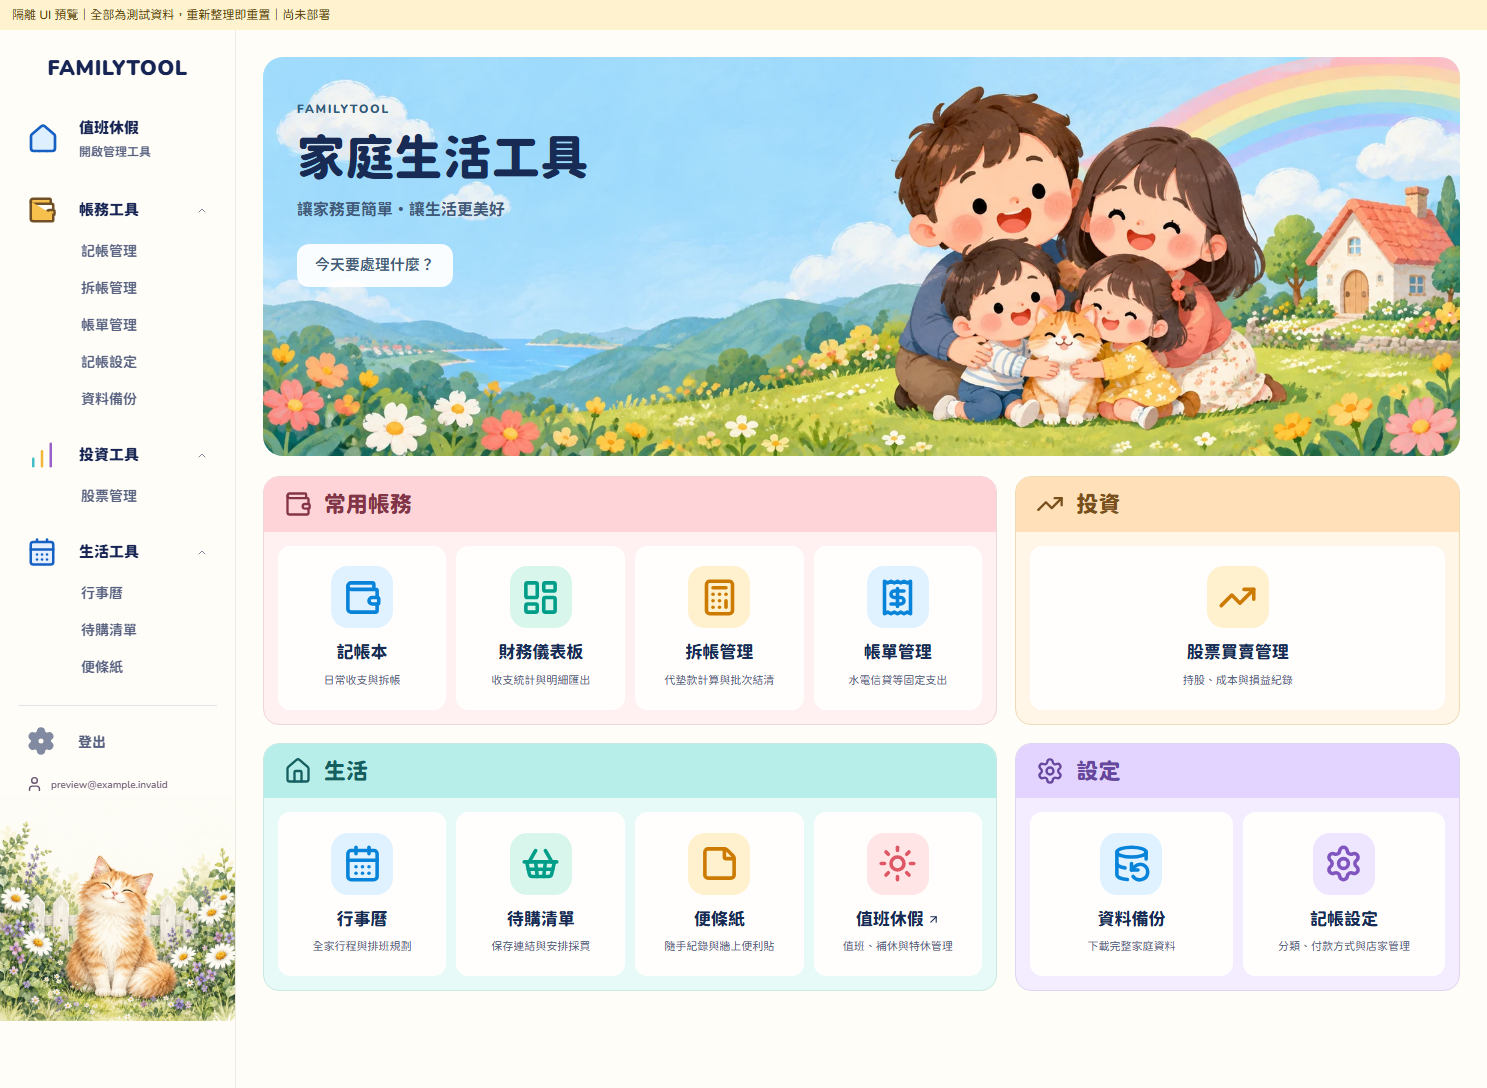
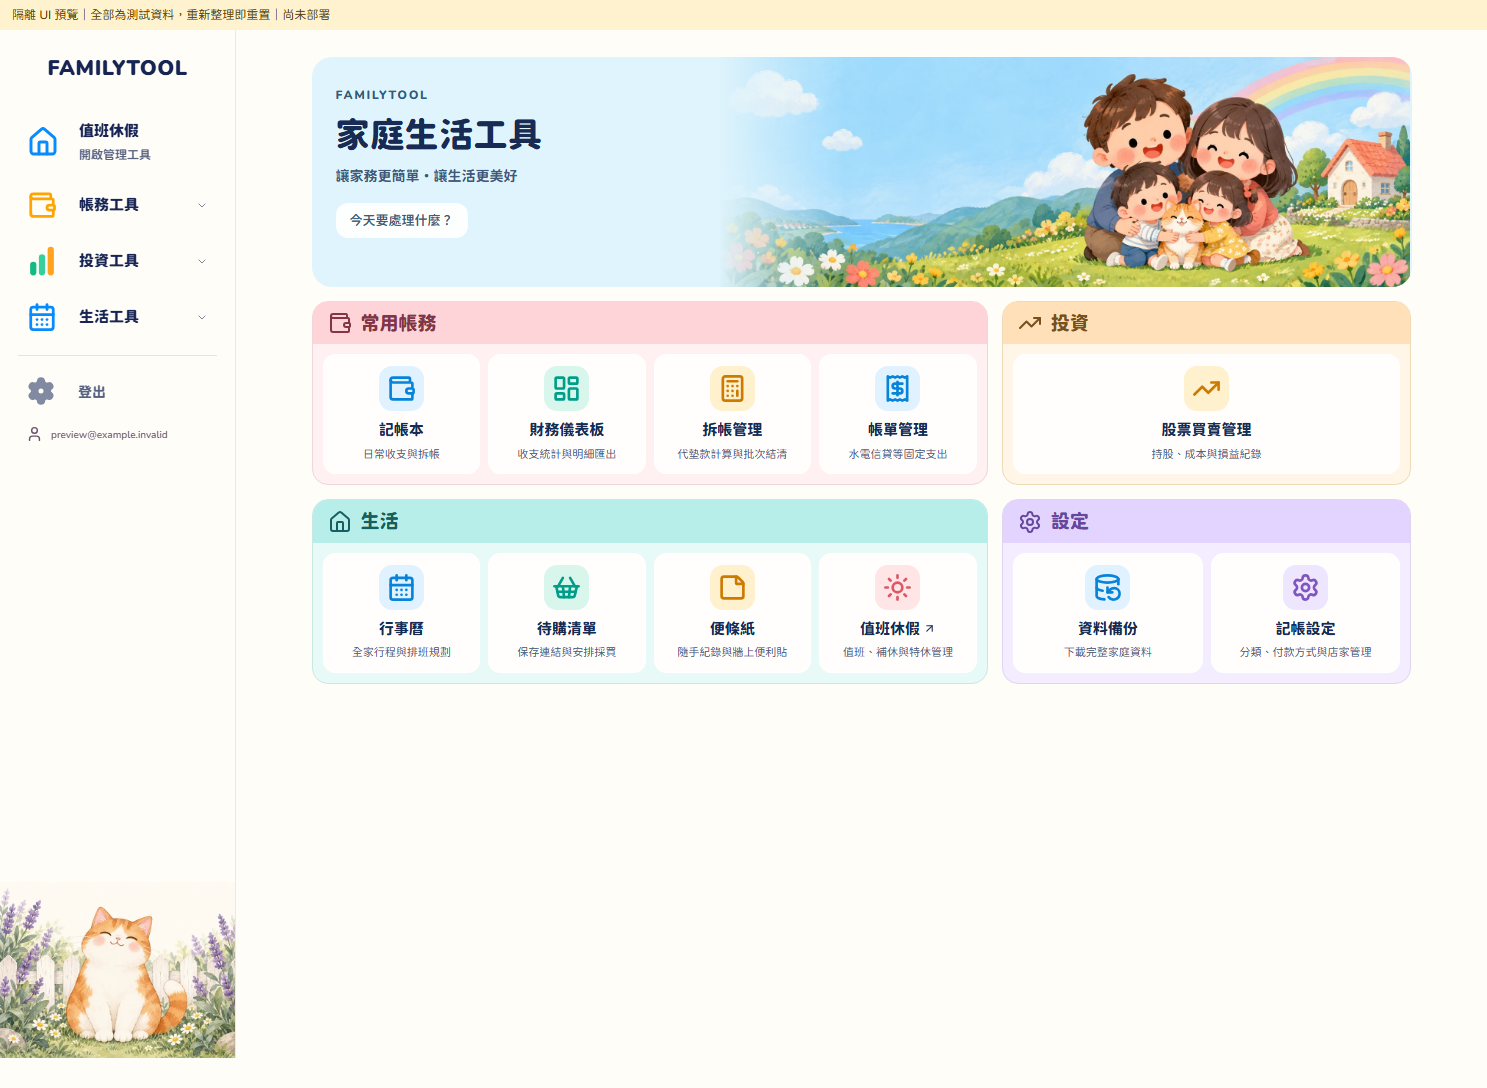
ui: compact homepage and keep sidebar cat visible

diff --git a/src/components/AppShell.tsx b/src/components/AppShell.tsx
@@ -1,7 +1,7 @@
 "use client";
 import "@/app/family-harmony.css";
 
-import { useEffect, useMemo, useState } from "react";
+import { useEffect, useState } from "react";
 import Link from "next/link";
 import { usePathname, useRouter } from "next/navigation";
 import { supabase } from "@/lib/supabaseClient";
@@ -61,11 +61,7 @@ export default function AppShell({ children }: { children: React.ReactNode }) {
   const pathname = usePathname();
   const [user, setUser] = useState<SupabaseUser | null>(null);
   const [drawerOpen, setDrawerOpen] = useState(false);
-  const activeGroup = useMemo(() => NAV_GROUPS.find((group) => group.items.some((item) => {
-    if (item.href === "/settings/categories") return ["/settings/categories", "/settings/payment-methods", "/settings/merchants", "/settings/payers"].includes(pathname);
-    return pathname === item.href || pathname.startsWith(`${item.href}/`);
-  }))?.title ?? null, [pathname]);
-  const [expandedGroups, setExpandedGroups] = useState<Set<string>>(() => new Set(NAV_GROUPS.map(group => group.title)));
+  const [expandedGroups, setExpandedGroups] = useState<Set<string>>(() => new Set());
 
   useEffect(() => {
     supabase.auth.getUser().then(({ data: { user } }) => setUser(user));
@@ -79,10 +75,6 @@ export default function AppShell({ children }: { children: React.ReactNode }) {
     });
     return () => subscription.unsubscribe();
   }, [router]);
-
-  useEffect(() => {
-    if (activeGroup) setExpandedGroups((current) => current.has(activeGroup) ? current : new Set([...current, activeGroup]));
-  }, [activeGroup]);
 
   const handleLogout = async () => {
     try {
@@ -122,6 +114,7 @@ export default function AppShell({ children }: { children: React.ReactNode }) {
             <span><strong>FAMILYTOOL</strong></span>
           </Link>
 
+          <div className="family-sidebar-scroll">
           <Link href="https://shift-leave-manager.vercel.app/" target="_blank" rel="noreferrer" className="shift-shortcut">
             <House aria-hidden="true" />
             <span><strong>值班休假</strong><small>開啟管理工具</small></span>
@@ -155,6 +148,7 @@ export default function AppShell({ children }: { children: React.ReactNode }) {
               <button onClick={handleLogout}><Settings aria-hidden="true" />登出</button>
             </div>
           )}
+          </div>
           <div className="family-sidebar-garden" aria-hidden="true" />
         </aside>
       </div>

diff --git a/src/app/home-harmony.css b/src/app/home-harmony.css
@@ -1,5 +1,5 @@
 /* Home-only presentation; shared navigation, data and feature pages are untouched. */
-.home-harmony .home-inner { width:100%; max-width:1440px; margin:auto; color:#172b55; }
+.home-harmony .home-inner { width:100%; max-width:1100px; margin:auto; color:#172b55; }
 .home-hero { position:relative; isolation:isolate; overflow:hidden; min-height:260px; aspect-ratio:3; border-radius:20px; background:#dff4fc; }
 .home-hero-art { position:absolute; inset:0; width:100%; height:100%; object-fit:cover; object-position:center; z-index:-1; }
 .home-hero-copy { padding:38px 34px; width:53%; }
@@ -36,4 +36,34 @@
 @media (max-width:700px) {
   .home-hero { aspect-ratio:auto; min-height:390px; }
   .home-hero-art { width:200%; max-width:none; height:auto; top:auto; bottom:0; left:auto; right:0; object-fit:contain; }
+}
+/* Compact homepage: reduce visual height without scaling text or tap targets. */
+@media (min-width:701px) {
+  .home-hero { min-height:0; height:230px; aspect-ratio:auto; }
+  .home-hero-art { width:auto; min-width:63%; max-width:none; height:100%; left:auto; right:0; object-fit:contain; mask-image:linear-gradient(to right,transparent,#000 18%); }
+  .home-hero-copy { padding:24px; width:50%; }
+  .home-hero h1 { font-size:34px; }
+  .home-hero-copy p { font-size:14px; }
+  .home-prompt { margin-top:15px; padding:8px 14px; font-size:13px; }
+  .home-groups { gap:14px; margin-top:14px; }
+  .home-section-heading { padding:9px 15px; gap:9px; }
+  .home-section-heading h2 { font-size:19px; }
+  .home-section-heading > svg { width:24px; height:24px; }
+  .home-tools { padding:10px; gap:8px; }
+  .home-tool { min-height:120px; padding:10px 6px; }
+  .home-tool-icon { width:45px; height:45px; border-radius:13px; margin-bottom:8px; }
+  .home-tool-icon svg { width:29px; height:29px; }
+  .home-tool-name { font-size:15px; }
+  .home-tool-desc { margin-top:4px; }
+  .home-section--investment .home-tools,.home-section--settings .home-tools { height:calc(100% - 44px); }
+}
+@media (min-width:1000px) { .home-tools { grid-template-columns:repeat(4,minmax(0,1fr)); } }
+@media (max-width:700px) {
+  .home-hero { min-height:335px; }
+  .home-hero-copy { padding:17px; }
+  .home-hero h1 { font-size:26px; }
+  .home-hero-art { width:175%; }
+  .home-tool { min-height:124px; padding:12px 7px; }
+  .home-tool-icon { width:48px; height:48px; margin-bottom:8px; }
+  .home-tool-icon svg { width:30px; height:30px; }
 }

diff --git a/src/app/family-harmony.css b/src/app/family-harmony.css
@@ -22,7 +22,19 @@
 .family-shell .family-content :is(.shopping-pilot,.stickies-pilot,.sticky-detail-ui,.calendar-ui) { --section-accent:#087c80; --section-soft:#e8faf7; --section-line:#c8e9e1; }
 .family-shell .family-content :is(.backup-ui,.app-page:has(.settings-navigation)) { --section-accent:#7252b1; --section-soft:#f3edff; --section-line:#e0d5f0; }
 
-/* Keep the garden/cat artwork untouched. */
+/* Sidebar reference refresh: keep navigation structure and actions unchanged. */
+.family-shell .family-sidebar { height:100dvh; min-height:0; overflow:hidden; padding-bottom:0; }
+.family-shell .family-sidebar > .family-brand { flex-shrink:0; }
+.family-shell .family-sidebar-scroll { flex:1 1 0%; min-height:0; overflow-y:auto; overflow-x:hidden; overscroll-behavior-y:contain; scrollbar-width:thin; padding:3px 4px 8px; margin:0 -4px; }
+.family-shell .family-sidebar > .family-sidebar-garden { flex:0 0 clamp(90px,23dvh,180px); height:clamp(90px,23dvh,180px); min-height:0; background-size:contain; background-position:center bottom; }
+.family-shell .family-sidebar .shift-shortcut > svg:first-child { color:#078bff; fill:none; stroke-width:2.2; }
+.family-shell .family-sidebar .family-nav-group:first-child .family-nav-group-label svg { color:#ffa400; fill:none; stroke-width:2.2; }
+.family-shell .family-sidebar .family-nav-group:nth-child(2) .family-nav-group-label svg { fill:none; stroke-width:5; stroke-linecap:round; }
+.family-shell .family-sidebar .family-nav-group:nth-child(2) .family-nav-group-label svg path:nth-child(1) { stroke:#13bb83; }
+.family-shell .family-sidebar .family-nav-group:nth-child(2) .family-nav-group-label svg path:nth-child(2) { stroke:#37cf9b; }
+.family-shell .family-sidebar .family-nav-group:nth-child(2) .family-nav-group-label svg path:nth-child(3) { stroke:#ffa321; }
+.family-shell .family-sidebar .family-nav-group:nth-child(3) .family-nav-group-label svg { color:#078bff; fill:none; stroke-width:2.2; }
+.family-shell .family-sidebar-garden { min-height:180px; background-image:url('/images/sidebar-garden-cat-soft.webp'); background-size:100% auto; }
 .family-shell .family-sidebar { background-color:#fffdf7 !important; border-right-color:#eee9df !important; }
 .family-shell .family-nav-link.active { background:#e0f1ff !important; color:#075dae !important; border-radius:10px !important; }
 .family-shell .family-nav-link:hover { background-color:#eef6fa; }

diff --git a/src/app/ledger/dashboard/page.tsx b/src/app/ledger/dashboard/page.tsx
@@ -1090,10 +1090,10 @@ export default function LedgerDashboardPage() {
                       <th className="px-2 py-2 w-[20px]">類型</th>
                       <th className="px-2 py-2 w-[80px] text-right">金額</th>
                       <th className="px-2 py-2 w-[100px]">分類</th>
-                      <th className="px-2 py-2 w-[160px]">店家</th>
+                      <th className="px-2 py-2">店家</th>
                       <th className="px-2 py-2 w-[100px]">付款</th>
                       <th className="px-2 py-2 w-[90px]">結清狀態</th>
-                      <th className="px-2 py-2">備註</th>
+                      <th className="px-2 py-2 w-[160px]">備註</th>
                     </tr>
                   </thead>
 

diff --git a/tools/ui-preview/preview-shell.css b/tools/ui-preview/preview-shell.css
@@ -1,0 +1,4 @@
+/* Only the isolated preview has a 30px notice above the desktop shell. */
+@media (min-width:1024px) {
+  .family-shell .family-sidebar { height:calc(100dvh - 30px) !important; }
+}

diff --git a/tools/ui-preview/main.jsx b/tools/ui-preview/main.jsx
@@ -1,4 +1,5 @@
 import './fixtures.mjs';
+import './preview-shell.css';
 import React from 'react';
 import { createRoot } from 'react-dom/client';
 import '../../src/app/globals.css';

diff --git a/docs/ui-reports/home-compact-20260927.md b/docs/ui-reports/home-compact-20260927.md
@@ -1,0 +1,10 @@
+# Compact homepage and sidebar refresh
+
+Local-only changes after deployment 41cb7db. No push or deployment.
+
+- Four sidebar group icons retain existing Lucide assets with reference colors: blue outline house/calendar, orange outline wallet, thick green/mint/orange bars. No navigation behavior changes.
+- Homepage max width 1100px; desktop hero 230px; entry cards 120px; responsive mobile hero 335px. No browser zoom or reduced tap targets.
+- Sidebar cat: public/images/sidebar-garden-cat-soft.webp (640x480, 66842 bytes). Built-in image_gen generated a new asset, old cat retained.
+- Prompt: landscape 4:3 soft flat hand-drawn watercolor storybook illustration; cute plump orange-white seated cat, happily closed eyes, small smile, pink cheeks, white belly/paws; white picket fence, lavender flowers, sage leaves and daisies; warm ivory background; complete ears and paws; no text, UI, watermark, realism or 3D.
+- TypeScript passed. Browser verified 1487/834/390 widths and 10 internal destinations; external link attributes retained. No horizontal overflow, page errors, external requests or mutation requests.
+- Visually inspected final desktop/mobile captures in home-acceptance; softened image seam after initial capture. Sidebar is shared, homepage sizing CSS is scoped to homepage.
